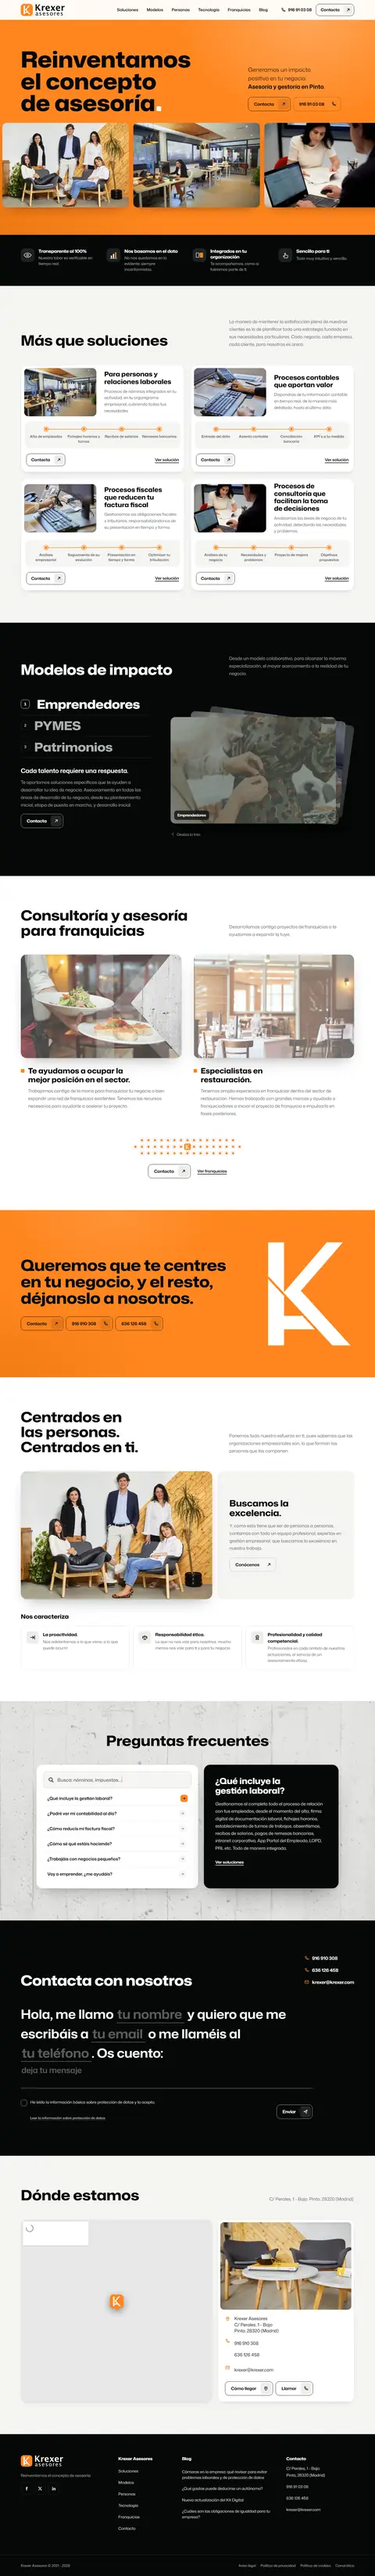
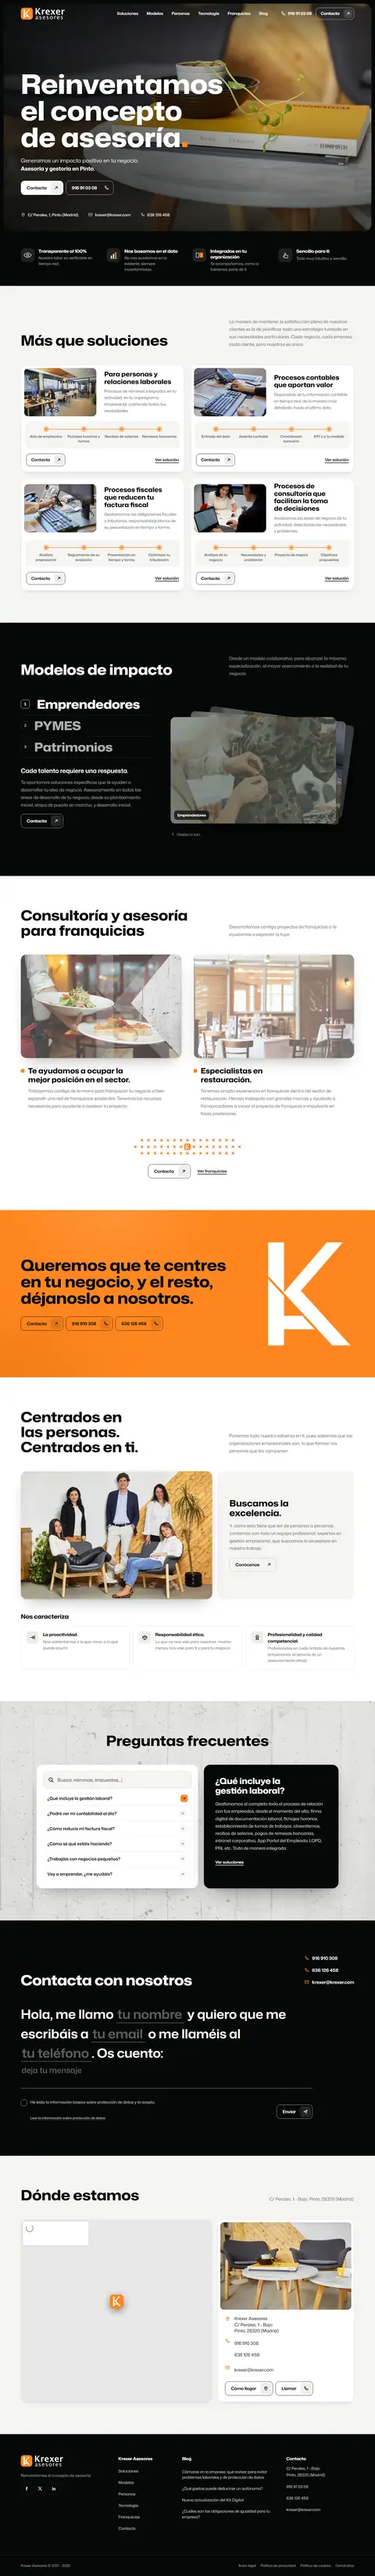
Publica krexer-asesores

Changed region(s): [[0.0, 0.0, 1.0, 0.093]]

diff --git a/krexer-asesores/assets/css/home.css b/krexer-asesores/assets/css/home.css
@@ -35,6 +35,7 @@
   --ancho: 1280px;
   --cab: 64px;
   --barra: 0px;
+  --marco: 0px;   /* el marco negro alrededor del hero */
   --sec: clamp(64px, 8.5vw, 128px);
 
   /* Profundidad: base → elevado → flotante, con el negro de la marca */
@@ -54,6 +55,7 @@
 @media (min-width: 1024px) { :root { --cab: 76px; } }
 @media (min-width: 1760px) { :root { --ancho: 1480px; } }
 @media (max-width: 1023.98px) { :root { --barra: 62px; } }
+@media (min-width: 600px) { :root { --marco: clamp(8px, 1vw, 16px); } }
 
 /* ─── Base ─── */
 *, *::before, *::after { box-sizing: border-box; margin: 0; padding: 0; }
@@ -190,14 +192,27 @@ ul, ol { list-style: none; }
 .enlace:active { opacity: .7; }
 
 /* ═══════════ CABECERA ═══════════ */
-.cab {
-  position: fixed; inset: 0 0 auto; z-index: 50; height: var(--cab);
+.cab { position: fixed; inset: 0 0 auto; z-index: 50; height: var(--cab); }
+.cab::before {
+  content: ''; position: absolute; inset: 0; z-index: -1;
   background: rgba(255, 255, 255, .96);
   -webkit-backdrop-filter: saturate(1.4) blur(10px); backdrop-filter: saturate(1.4) blur(10px);
+  transition: opacity .35s;
 }
+/* Arriba del todo, la cabecera va dentro del marco del hero: sin fondo y en blanco */
+.js .cab.sobre::before { opacity: 0; }
+.js .cab.sobre .cab__dentro { transform: translateY(var(--marco)); }
+.js .cab.sobre .menu a, .js .cab.sobre .cab__tel, .js .cab.sobre .hamburguesa { color: var(--blanco); }
+.js .cab.sobre .logo__texto { filter: brightness(0) invert(1); }
+.js .cab.sobre .hamburguesa { border-color: rgba(255, 255, 255, .55); }
+.js .cab.sobre .boton--cab {
+  --b-borde: rgba(255, 255, 255, .8); --b-txt: var(--blanco); --b-txt-on: var(--negro);
+  --b-pastilla: rgba(255, 255, 255, .14); --b-pastilla-on: var(--negro); --b-ico: var(--blanco); --b-ico-on: var(--blanco);
+}
+.js .cab.sobre :focus-visible { outline-color: var(--naranja); }
 .cab::after { content: ''; position: absolute; inset: auto 0 0; height: 1px; background: var(--linea); opacity: 0; transition: opacity .3s; }
 .cab.con-sombra::after { opacity: 1; }
-.cab__dentro { height: 100%; display: flex; align-items: center; gap: 24px; }
+.cab__dentro { height: 100%; display: flex; align-items: center; gap: 24px; transition: transform .45s var(--sale); }
 .logo { display: flex; align-items: center; gap: 10px; text-decoration: none; flex: none; min-height: 44px; }
 .logo__k { width: 40px; height: 40px; }
 .logo__texto { width: 98px; height: auto; }
@@ -315,90 +330,114 @@ ul, ol { list-style: none; }
   .foto-marco:hover img[data-foto], .proceso:hover img[data-foto] { transform: scale(1.035); }
 }
 
-/* ═══════════ HERO: su titular sobre su naranja y su gente en una cinta que avanza sola ═══════════ */
-.hero {
-  position: relative; isolation: isolate; overflow: hidden; padding-top: var(--cab);
-  display: flex; flex-direction: column; justify-content: center;
-  background: var(--naranja); color: var(--negro);
-  --alto-cinta: clamp(150px, 36svh, 390px);
+/* ═══════════ HERO: su titular en grande sobre la foto de su sala de espera, a sangre dentro de un marco ═══════════ */
+.primera { background: var(--negro); }
+.hero { padding: var(--marco); }
+.hero__marco {
+  position: relative; isolation: isolate; overflow: hidden;
+  min-height: calc(100svh - 2 * var(--marco) - var(--barra));
+  display: flex; flex-direction: column; justify-content: flex-end;
+  padding-top: var(--cab); border-radius: 0 0 22px 22px;
+  background: var(--negro-2); color: var(--blanco);
 }
-.hero::before {
+@media (min-width: 600px) {
+  .hero__marco { border-radius: clamp(18px, 1.8vw, 28px); }
+}
+.hero__foto {
+  position: absolute; inset: 0; z-index: -2; width: 100%; height: 100%; max-width: none;
+  object-fit: cover; object-position: 56% 50%;
+}
+/* Veladura para leer en blanco: arriba (el menú), a la izquierda y abajo (el texto); la derecha queda limpia */
+.hero__marco::before {
   content: ''; position: absolute; inset: 0; z-index: -1; pointer-events: none;
   background:
-    radial-gradient(50% 60% at 82% 8%, rgba(255, 255, 255, .26), transparent 70%),
-    radial-gradient(60% 70% at 0% 100%, rgba(224, 111, 10, .6), transparent 72%);
+    linear-gradient(180deg, rgba(6, 8, 8, .52) 0, rgba(6, 8, 8, 0) calc(var(--cab) + 90px)),
+    linear-gradient(90deg, rgba(6, 8, 8, .72) 0%, rgba(6, 8, 8, .4) 42%, rgba(6, 8, 8, 0) 72%),
+    linear-gradient(0deg, rgba(6, 8, 8, .66) 0%, rgba(6, 8, 8, .18) 46%, rgba(6, 8, 8, 0) 70%);
 }
-.hero__dentro {
-  display: grid; grid-template-columns: minmax(0, 1fr); gap: clamp(14px, 2.6svh, 28px); align-items: end;
-  padding-block: clamp(18px, 4.5svh, 52px) clamp(18px, 4svh, 44px);
-}
+/* El contenido del marco, alineado con el de la cabecera */
+.hero .envoltura { max-width: calc(var(--ancho) + 2 * var(--canal) - 2 * var(--marco)); padding-inline: calc(var(--canal) - var(--marco)); }
+.hero__dentro { display: grid; justify-items: start; padding-block: clamp(28px, 6svh, 72px) clamp(22px, 4.5svh, 48px); }
 .hero__titulo {
-  font-size: clamp(2.1rem, 1rem + 4.8vw, 5.8rem); font-weight: 820; font-stretch: 112%;
-  line-height: .98; letter-spacing: 0; text-wrap: balance;
+  max-width: 10.5em; font-size: clamp(2.1rem, 1rem + 6vw, 6.6rem); font-weight: 760; font-stretch: 112%;
+  line-height: 1; letter-spacing: 0; text-wrap: balance;
 }
-.punto { display: inline-block; position: relative; width: .22em; height: .22em; margin-left: .05em; color: transparent; vertical-align: baseline; overflow: hidden; line-height: 0; }
-.punto::before { content: ''; position: absolute; inset: 0; border-radius: 28%; background: var(--blanco); }
+.punto { display: inline-block; position: relative; width: .2em; height: .2em; margin-left: .05em; color: transparent; vertical-align: baseline; overflow: hidden; line-height: 0; }
+.punto::before { content: ''; position: absolute; inset: 0; border-radius: 28%; background: var(--naranja); }
 .anima .hero__titulo.visto .punto::before { animation: punto-late 1s var(--muelle) 1.2s both; }
 @keyframes punto-late { 0% { transform: scale(0) rotate(-45deg); } 100% { transform: none; } }
-.hero__lado { display: grid; gap: clamp(16px, 2.6svh, 26px); align-content: end; }
-.hero__lead { font-size: clamp(1.08rem, 1rem + .45vw, 1.35rem); line-height: 1.5; color: rgba(6, 8, 8, .8); max-width: 36ch; text-wrap: balance; }
-.hero__lugar { display: block; color: var(--negro); font-weight: 650; }
-.hero__botones { display: flex; flex-wrap: wrap; gap: 10px; }
-.hero .boton--negro.boton--sec { --b-borde: rgba(6, 8, 8, .4); --b-pastilla: transparent; }
-.anima .hero__botones { opacity: 0; transform: translateY(16px); transition: transform 1s var(--sale), opacity .7s; }
+.hero__lead { margin-top: clamp(16px, 2.6svh, 28px); max-width: 40ch; font-size: clamp(1.05rem, .98rem + .4vw, 1.3rem); line-height: 1.5; color: rgba(255, 255, 255, .86); text-wrap: balance; }
+.hero__lugar { display: block; color: var(--blanco); font-weight: 650; }
+.hero__botones { display: flex; flex-wrap: wrap; gap: 10px; margin-top: clamp(20px, 3.4svh, 34px); }
+.boton--blanco {
+  --b-borde: var(--blanco); --b-txt: var(--negro); --b-txt-on: var(--negro); --b-fondo: var(--naranja);
+  --b-pastilla: var(--hormigon-claro); --b-pastilla-on: var(--blanco); --b-ico: var(--negro); --b-ico-on: var(--negro);
+  background: var(--blanco);
+}
+.boton--blanco:focus-visible, .hero .boton--claro:focus-visible { outline-color: var(--naranja); }
+.hero .boton--claro.boton--sec { --b-pastilla: transparent; }
+
+/* Sus datos al pie del marco */
+.hero__datos { display: flex; flex-wrap: wrap; gap: 0 clamp(18px, 2.6vw, 38px); margin-top: clamp(26px, 6svh, 64px); font-size: .92rem; }
+.hero__datos a {
+  display: inline-flex; align-items: center; gap: 9px; min-height: 44px;
+  color: rgba(255, 255, 255, .84); font-weight: 540; font-stretch: 104%; text-decoration: none;
+  -webkit-tap-highlight-color: transparent;
+}
+.hero__datos .ico { width: 18px; height: 18px; }
+.hero__datos span { position: relative; }
+.hero__datos span::after {
+  content: ''; position: absolute; left: 0; right: 0; bottom: -4px; height: 2px; border-radius: 1px;
+  background: var(--naranja); transform: scaleX(0); transform-origin: left; transition: transform .45s var(--sale);
+}
+@media (hover: hover) {
+  .hero__datos a:hover { color: var(--blanco); }
+  .hero__datos a:hover span::after { transform: none; }
+  .hero__datos a:hover .ico { color: var(--naranja); }
+  .hero__datos a[data-gesto="bota"]:hover .ico { animation: bota .8s var(--sale); }
+  .hero__datos a[data-gesto="suena"]:hover .ico { animation: suena .9s var(--sale); }
+}
+.hero__datos a:focus-visible { outline-color: var(--naranja); color: var(--blanco); }
+.hero__datos a:focus-visible span::after { transform: none; }
+.hero__datos a:active { opacity: .7; }
+
+/* Entrada: la foto se asienta, el corte barre el titular, la entradilla sigue palabra a palabra y después botones y datos */
+.anima .hero__foto { transform: scale(1.08); transition: transform 2.8s cubic-bezier(.16, 1, .3, 1); }
+.anima .hero.listo .hero__foto { transform: none; }
+.anima .hero__botones, .anima .hero__datos { opacity: 0; transform: translateY(16px); transition: transform 1s var(--sale), opacity .7s; }
 .anima .hero.listo .hero__botones { opacity: 1; transform: none; transition-delay: .8s; }
+.anima .hero.listo .hero__datos { opacity: 1; transform: none; transition-delay: 1.05s; }
 
-/* La cinta: las fotos de su oficina, enteras, a sangre; avanza sola y se para con el cursor encima */
-.cinta { position: relative; padding-bottom: clamp(18px, 4svh, 48px); }
-.cinta__pista { display: flex; width: max-content; gap: 0; }
-.cinta__foto {
-  flex: none; position: relative; height: var(--alto-cinta); margin: 0 clamp(6px, .6vw, 9px);
-  border-radius: 16px; overflow: hidden; background: rgba(6, 8, 8, .12);
-  box-shadow: 0 22px 40px -24px rgba(110, 40, 0, .65);
-}
-.cinta__foto img { display: block; height: 100%; width: auto; max-width: none; }
-.anima .cinta__pista { animation: cinta-corre var(--dur, 80s) linear infinite; }
-.cinta.parada .cinta__pista, .cinta:hover .cinta__pista, .cinta:focus-within .cinta__pista { animation-play-state: paused; }
-@keyframes cinta-corre { to { transform: translateX(-50%); } }
-.anima .cinta__foto { opacity: 0; transform: translateY(26px); transition: transform 1.1s var(--muelle-suave), opacity .7s; transition-delay: calc(var(--i, 0) * 70ms + .45s); }
-.anima .hero.listo .cinta__foto { opacity: 1; transform: none; }
-.quieto .cinta { overflow-x: auto; scrollbar-width: none; }
-
-@media (min-width: 1024px) {
-  .hero { min-height: 100svh; }
-  .hero__dentro { grid-template-columns: minmax(0, 8fr) minmax(0, 4fr); column-gap: clamp(32px, 4vw, 72px); }
-  .hero__lado { padding-bottom: .6rem; }
-}
-@media (min-width: 1760px) and (min-height: 960px) { .hero__titulo { font-size: clamp(5.8rem, 2.8rem + 2.6vw, 6.8rem); } }
+@media (min-width: 1760px) and (min-height: 960px) { .hero__titulo { font-size: clamp(6.6rem, 3rem + 3vw, 7.6rem); } }
 /* Pantallas bajas (portátil 1366×768, 1280×720): el hero sigue cabiendo entero */
 @media (min-width: 1024px) and (max-height: 800px) {
-  .hero__titulo { font-size: clamp(2.2rem, 1rem + 3.7vw, 4.2rem); }
-  .hero { --alto-cinta: clamp(150px, 33svh, 280px); }
-}
-@media (max-width: 1023.98px) {
-  .hero { --alto-cinta: clamp(140px, 30svh, 340px); }
+  .hero__titulo { font-size: clamp(2.6rem, 1rem + 4.2vw, 5rem); }
+  .hero__datos { margin-top: 22px; }
 }
 /* Móvil en horizontal (844×390, 667×375…) */
 @media (orientation: landscape) and (max-height: 560px) and (max-width: 1023.98px) {
-  .hero__dentro { grid-template-columns: minmax(0, 7fr) minmax(0, 5fr); column-gap: 24px; padding-block: 10px 12px; }
-  .hero__titulo { font-size: clamp(1.6rem, .8rem + 2.6vw, 2.3rem); }
-  .hero__lead { font-size: .95rem; }
+  .hero__titulo { max-width: 16em; font-size: clamp(1.7rem, .8rem + 3vw, 2.6rem); }
+  .hero__dentro { padding-block: 14px 16px; }
+  .hero__lead { margin-top: 10px; font-size: .95rem; }
+  .hero__botones { margin-top: 14px; }
   .boton { --b-alto: 46px; --b-pas: 36px; }
-  .hero { --alto-cinta: calc(100svh - var(--cab) - var(--barra) - 190px); }
-  .cinta { padding-bottom: 12px; }
+  .hero__datos { display: none; }
 }
 @media (orientation: landscape) and (max-height: 420px) and (max-width: 1023.98px) {
   .hero__botones { display: none; }
-  .hero { --alto-cinta: calc(100svh - var(--cab) - var(--barra) - 150px); }
 }
-/* Móviles bajos (320×568, 360×640…): la barra fija ya lleva Llamar y Contacta */
+/* Móvil: el texto abajo, sobre una veladura más firme; la barra fija ya lleva Llamar y Contacta */
+@media (max-width: 599.98px) {
+  .hero__foto { object-position: 50% 40%; }
+  .hero__marco::before {
+    background:
+      linear-gradient(180deg, rgba(6, 8, 8, .5) 0, rgba(6, 8, 8, 0) calc(var(--cab) + 70px)),
+      linear-gradient(0deg, rgba(6, 8, 8, .86) 0%, rgba(6, 8, 8, .6) 46%, rgba(6, 8, 8, 0) 78%);
+  }
+  .hero__datos { display: none; }
+}
 @media (max-width: 599.98px) and (max-height: 700px) {
-  .hero__dentro { gap: 12px; padding-block: 12px 14px; }
   .hero__botones { display: none; }
-  .hero__titulo { font-size: clamp(1.6rem, .9rem + 4.4vw, 2.1rem); }
-  .hero__lead { font-size: .98rem; }
-  .hero { --alto-cinta: clamp(120px, 24svh, 170px); }
-  .cinta { padding-bottom: 14px; }
 }
 
 /* ═══════════ VALORES ═══════════ */

diff --git a/krexer-asesores/index.html b/krexer-asesores/index.html
@@ -24,10 +24,7 @@
 <link rel="icon" href="assets/img/favicon-192x192.jpg" sizes="192x192">
 <link rel="apple-touch-icon" href="assets/img/favicon-180x180.jpg">
 <script>
-  /* Caducidad: la propuesta se ve 10 días desde su envío (el día de envío cuenta). Envío previsto el
-     miércoles 11-nov-2026: visible hasta el viernes 20 de noviembre de 2026 a las 23:59 de Madrid
-     (21-nov 00:00 CET = 20-nov 23:00 UTC). Si se envía otro día, ajustar aquí y en la lámina de la propuesta.
-     En local no caduca; ?caducada lo simula. */
+  /* Caducidad: a partir de esta fecha la página lleva al aviso. En local no caduca; ?caducada lo simula. */
   (function () {
     var fin = Date.UTC(2026, 10, 20, 23, 0);
     if (/[?&]caducada\b/.test(location.search) || (location.protocol !== 'file:' && !/^(localhost|127\.0\.0\.1)$/.test(location.hostname) && Date.now() >= fin)) {
@@ -45,11 +42,11 @@
     d.classList.add(quiet ? 'quieto' : 'anima');
     if (ss) d.classList.add('captura');
     d.classList.add('js');
-    setTimeout(function () { if (!window.KREXER) { d.classList.remove('anima'); d.classList.add('quieto'); } }, 4000);
+    setTimeout(function () { if (!window.KREXER) { d.classList.remove('anima'); d.classList.add('quieto'); var c = document.querySelector('[data-cab]'); if (c) c.classList.remove('sobre'); } }, 4000);
   })(document.documentElement);
 </script>
 <link rel="preload" href="assets/fonts/mona-sans.woff2" as="font" type="font/woff2" crossorigin>
-<link rel="stylesheet" href="assets/css/home.css?v=5">
+<link rel="stylesheet" href="assets/css/home.css?v=6">
 <script type="application/ld+json">
 {
   "@context": "https://schema.org",
@@ -96,7 +93,7 @@
 
 <a class="saltar" href="#contenido">Saltar al contenido</a>
 
-<header class="cab" data-cab>
+<header class="cab sobre" data-cab>
   <div class="envoltura cab__dentro">
     <a class="logo" href="https://krexerasesores.es/" aria-label="Krexer Asesores, inicio">
       <svg class="logo__k" viewBox="0 0 672 672" aria-hidden="true"><use href="#k-logo"/></svg>
@@ -140,29 +137,21 @@
   <!-- ═══════════ PRIMERA PANTALLA: HERO + FRANJA DE VALORES ═══════════ -->
   <div class="primera">
   <section class="hero" data-hero aria-labelledby="t-hero">
-    <div class="envoltura hero__dentro">
-      <h1 id="t-hero" class="hero__titulo" data-titulo>Reinventamos el concepto de asesoría<span class="punto">.</span></h1>
-      <div class="hero__lado">
+    <!-- Su titular en grande sobre la foto de su sala de espera (sesión de fotos de su web), a sangre en un marco -->
+    <div class="hero__marco">
+      <img class="hero__foto" src="assets/img/sala-1440.webp" srcset="assets/img/sala-960.webp 960w, assets/img/sala-1440.webp 1440w, assets/img/sala-1899.webp 1899w" sizes="(max-aspect-ratio: 3/2) 150vh, 100vw" width="1899" height="1266" alt="La sala de espera de Krexer Asesores en Pinto: una mesa de mármol con libros de economía y una planta" fetchpriority="high">
+      <div class="envoltura hero__dentro">
+        <h1 id="t-hero" class="hero__titulo" data-titulo>Reinventamos el concepto de asesoría<span class="punto">.</span></h1>
         <p class="hero__lead" data-sub>Generamos un impacto positivo en tu negocio. <span class="hero__lugar">Asesoría y gestoría en Pinto.</span></p>
         <div class="hero__botones">
-          <a class="boton boton--negro" href="#contacto" data-interes=""><span class="boton__fondo" aria-hidden="true"></span><span class="boton__txt" data-t="Contacta">Contacta</span><span class="boton__ico" aria-hidden="true"><svg><use href="#i-flecha"/></svg><svg><use href="#i-flecha"/></svg></span></a>
-          <a class="boton boton--negro boton--sec" href="tel:+34916910308"><span class="boton__fondo" aria-hidden="true"></span><span class="boton__txt" data-t="916 91 03 08">916 91 03 08</span><span class="boton__ico boton__ico--tel" aria-hidden="true"><svg><use href="#i-tel"/></svg></span></a>
+          <a class="boton boton--blanco" href="#contacto" data-interes=""><span class="boton__fondo" aria-hidden="true"></span><span class="boton__txt" data-t="Contacta">Contacta</span><span class="boton__ico" aria-hidden="true"><svg><use href="#i-flecha"/></svg><svg><use href="#i-flecha"/></svg></span></a>
+          <a class="boton boton--claro boton--sec" href="tel:+34916910308"><span class="boton__fondo" aria-hidden="true"></span><span class="boton__txt" data-t="916 91 03 08">916 91 03 08</span><span class="boton__ico boton__ico--tel" aria-hidden="true"><svg><use href="#i-tel"/></svg></span></a>
         </div>
-      </div>
-    </div>
-
-    <!-- Su gente y su oficina (la sesión de fotos de su web), en una cinta que avanza sola -->
-    <div class="cinta" data-cinta data-carril role="group" aria-label="El equipo y la oficina de Krexer Asesores en Pinto">
-      <div class="cinta__pista" data-cinta-pista>
-        <figure class="cinta__foto foto-marco"><img data-foto src="assets/img/equipo-hero-720.webp" srcset="assets/img/equipo-hero-720.webp 720w, assets/img/equipo-hero-1080.webp 1080w" sizes="(min-width: 1024px) 48vh, 260px" width="1600" height="1066" alt="El equipo de Krexer Asesores en su oficina de Pinto" fetchpriority="high"><span class="encuadre" aria-hidden="true"><i></i><i></i><i></i><i></i></span></figure>
-        <figure class="cinta__foto foto-marco"><img data-foto src="assets/img/laboral-480.webp" srcset="assets/img/laboral-480.webp 480w, assets/img/laboral-800.webp 800w" sizes="(min-width: 1024px) 48vh, 260px" width="1200" height="800" alt="La oficina abierta de Krexer Asesores, con el equipo trabajando" fetchpriority="high"><span class="encuadre" aria-hidden="true"><i></i><i></i><i></i><i></i></span></figure>
-        <figure class="cinta__foto foto-marco"><img data-foto src="assets/img/consultoria-480.webp" srcset="assets/img/consultoria-480.webp 480w, assets/img/consultoria-800.webp 800w" sizes="(min-width: 1024px) 48vh, 260px" width="1200" height="800" alt="Una asesora de Krexer reunida con un cliente" fetchpriority="high"><span class="encuadre" aria-hidden="true"><i></i><i></i><i></i><i></i></span></figure>
-        <figure class="cinta__foto foto-marco"><img data-foto src="assets/img/recepcion-640.webp" srcset="assets/img/recepcion-640.webp 640w, assets/img/recepcion-960.webp 960w" sizes="(min-width: 1024px) 48vh, 260px" width="1400" height="933" alt="La sala de espera de Krexer Asesores, con la pared de madera"><span class="encuadre" aria-hidden="true"><i></i><i></i><i></i><i></i></span></figure>
-        <figure class="cinta__foto foto-marco"><img data-foto src="assets/img/fiscal-480.webp" srcset="assets/img/fiscal-480.webp 480w, assets/img/fiscal-800.webp 800w" sizes="(min-width: 1024px) 48vh, 260px" width="1200" height="800" alt="Una asesora de Krexer al teclado, con el teléfono en la mesa"><span class="encuadre" aria-hidden="true"><i></i><i></i><i></i><i></i></span></figure>
-        <figure class="cinta__foto foto-marco"><img data-foto src="assets/img/pymes-640.webp" srcset="assets/img/pymes-640.webp 640w, assets/img/pymes-960.webp 960w" sizes="(min-width: 1024px) 48vh, 260px" width="1400" height="933" alt="Puestos de trabajo en la oficina de Krexer Asesores"><span class="encuadre" aria-hidden="true"><i></i><i></i><i></i><i></i></span></figure>
-        <figure class="cinta__foto foto-marco"><img data-foto src="assets/img/equipo-720.webp" srcset="assets/img/equipo-720.webp 720w, assets/img/equipo-1080.webp 1080w" sizes="(min-width: 1024px) 48vh, 260px" width="1600" height="1066" alt="El equipo de Krexer Asesores, sentado y de pie"><span class="encuadre" aria-hidden="true"><i></i><i></i><i></i><i></i></span></figure>
-        <figure class="cinta__foto foto-marco"><img data-foto src="assets/img/contable-480.webp" srcset="assets/img/contable-480.webp 480w, assets/img/contable-800.webp 800w" sizes="(min-width: 1024px) 48vh, 260px" width="1200" height="800" alt="Teclado y ratón en un puesto de trabajo de Krexer Asesores"><span class="encuadre" aria-hidden="true"><i></i><i></i><i></i><i></i></span></figure>
-        <figure class="cinta__foto foto-marco"><img data-foto src="assets/img/sala-640.webp" srcset="assets/img/sala-640.webp 640w, assets/img/sala-960.webp 960w" sizes="(min-width: 1024px) 48vh, 260px" width="960" height="640" alt="Mesa de la sala de espera de Krexer Asesores"><span class="encuadre" aria-hidden="true"><i></i><i></i><i></i><i></i></span></figure>
+        <ul class="hero__datos">
+          <li><a href="#donde" data-gesto="bota"><svg class="ico" aria-hidden="true"><use href="#i-pin"/></svg><span>C/ Perales, 1, Pinto (Madrid)</span></a></li>
+          <li><a href="mailto:krexer@krexer.com" data-gesto="bota"><svg class="ico" aria-hidden="true"><use href="#i-mail"/></svg><span>krexer@krexer.com</span></a></li>
+          <li><a href="tel:+34636126458" data-gesto="suena"><svg class="ico" aria-hidden="true"><use href="#i-tel"/></svg><span>636 126 458</span></a></li>
+        </ul>
       </div>
     </div>
   </section>
@@ -636,6 +625,6 @@
   <a href="https://www.google.com/maps/dir/?api=1&amp;destination=Calle%20Perales%201%2C%2028320%20Pinto%2C%20Madrid" target="_blank" rel="noopener"><span class="barra-movil__ico"><svg aria-hidden="true"><use href="#i-pin"/></svg></span><span>Cómo llegar</span></a>
 </nav>
 
-<script src="assets/js/home.js?v=6" defer></script>
+<script src="assets/js/home.js?v=7" defer></script>
 </body>
 </html>

diff --git a/krexer-asesores/assets/js/home.js b/krexer-asesores/assets/js/home.js
@@ -1,4 +1,4 @@
-/* Krexer Asesores — propuesta de homepage (ronda 2). JavaScript puro, sin dependencias.
+/* Krexer Asesores — homepage. JavaScript puro, sin dependencias.
    «quieto» (reducir movimiento o ?ss): nada se mueve solo y todo queda a la vista. */
 (() => {
   'use strict';
@@ -96,18 +96,23 @@
     });
   });
 
-  /* ─── Cabecera ─── */
+  /* ─── Cabecera: arriba del todo va dentro del marco del hero, sin fondo y en blanco ─── */
   const cab = $('[data-cab]');
-  const sombra = () => cab.classList.toggle('con-sombra', scrollY > 8);
+  const hamb = $('.hamburguesa');
+  const menuMovil = $('#menu-movil');
+  const sombra = () => {
+    const arriba = scrollY <= 8;
+    cab.classList.toggle('con-sombra', !arriba);
+    cab.classList.toggle('sobre', arriba && menuMovil.hidden);
+  };
   addEventListener('scroll', sombra, { passive: true });
   sombra();
 
-  const hamb = $('.hamburguesa');
-  const menuMovil = $('#menu-movil');
   const cierraMenu = () => {
     hamb.setAttribute('aria-expanded', 'false');
     hamb.setAttribute('aria-label', 'Abrir el menú');
     menuMovil.hidden = true;
+    sombra();
   };
   hamb.addEventListener('click', () => {
     if (hamb.getAttribute('aria-expanded') === 'true') return cierraMenu();
@@ -115,11 +120,12 @@
     hamb.setAttribute('aria-label', 'Cerrar el menú');
     $$('li', menuMovil).forEach((li, i) => li.style.setProperty('--i', i));
     menuMovil.hidden = false;
+    sombra();
   });
   menuMovil.addEventListener('click', (e) => { if (e.target.closest('a')) cierraMenu(); });
   d.addEventListener('keydown', (e) => { if (e.key === 'Escape' && !menuMovil.hidden) { cierraMenu(); hamb.focus(); } });
 
-  /* ─── Hero: titular, entradilla y la cinta con su gente y su oficina ─── */
+  /* ─── Hero: la foto se asienta, el corte barre el titular y sigue la entradilla ─── */
   const hero = $('[data-hero]');
   const h1 = $('.hero__titulo');
   const lead = $('.hero__lead');
@@ -131,28 +137,6 @@
   };
   const listoFuentes = d.fonts && d.fonts.ready ? Promise.race([d.fonts.ready, espera(1200)]) : espera(200);
   listoFuentes.then(() => requestAnimationFrame(arrancaHero));
-
-  // La cinta se duplica para dar la vuelta sin saltos; avanza a velocidad constante y se para fuera de pantalla
-  const cinta = $('[data-cinta]');
-  if (cinta) {
-    const pista = $('[data-cinta-pista]', cinta);
-    const originales = [...pista.children];
-    originales.forEach((f, i) => f.style.setProperty('--i', i));
-    if (!quieto) {
-      originales.forEach((f, i) => {
-        const copia = f.cloneNode(true);
-        copia.setAttribute('aria-hidden', 'true');
-        copia.style.setProperty('--i', i + originales.length);
-        $$('img', copia).forEach((img) => { img.alt = ''; img.removeAttribute('data-foto'); });
-        pista.append(copia);
-      });
-      const velocidad = () => pista.style.setProperty('--dur', `${Math.max(30, Math.round(pista.scrollWidth / 2 / 36))}s`);
-      velocidad();
-      let tAncho = null;
-      addEventListener('resize', () => { clearTimeout(tAncho); tAncho = setTimeout(velocidad, 250); });
-      enPantalla(cinta, (si) => cinta.classList.toggle('parada', !si));
-    }
-  }
 
   /* ─── Valores: los pictogramas hacen su gesto por turnos ─── */
   const valores = $$('.valor');
